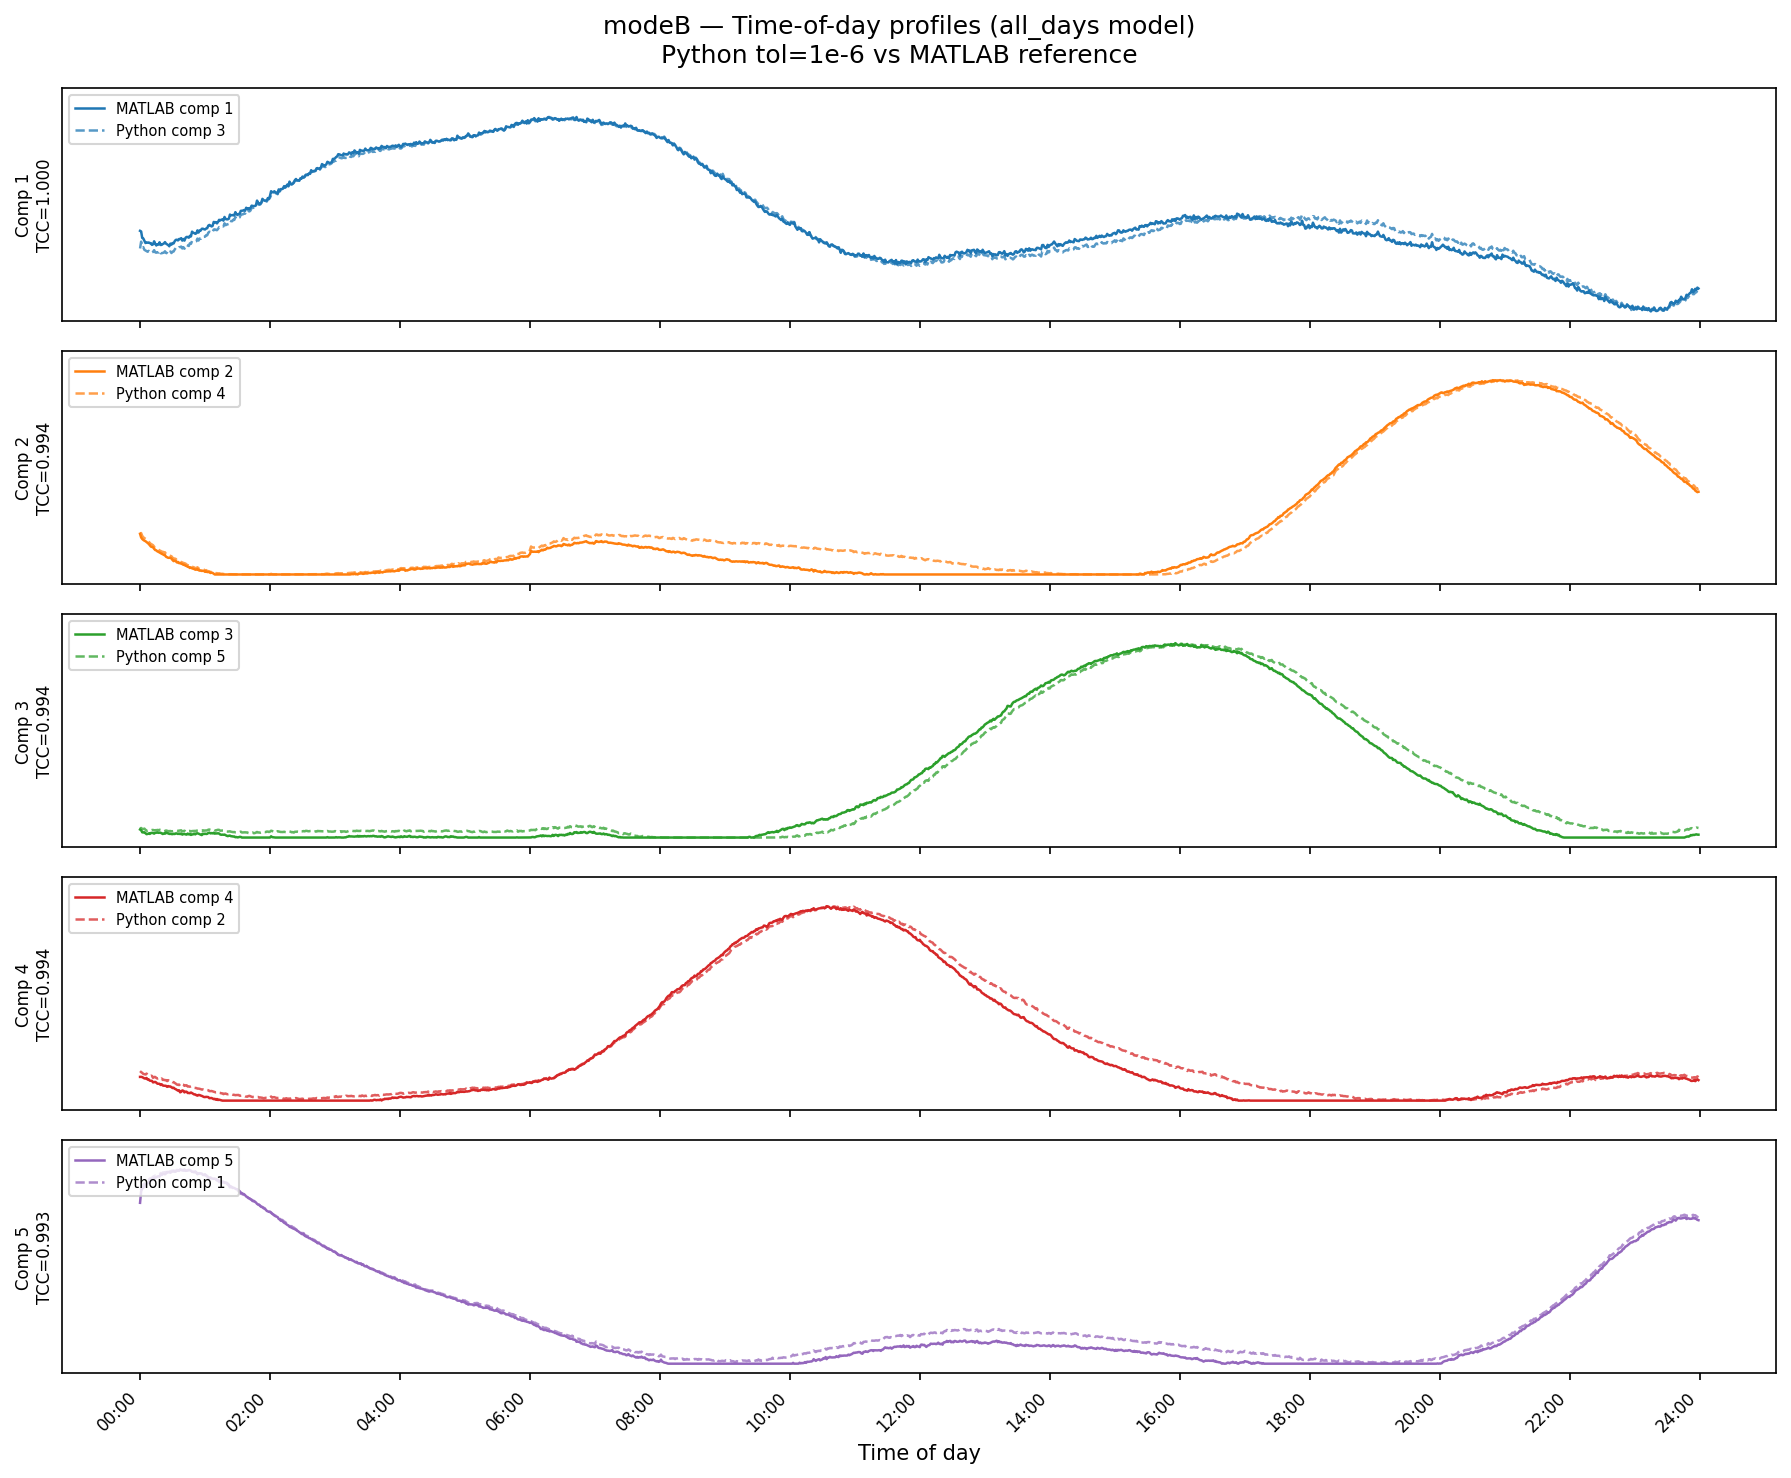
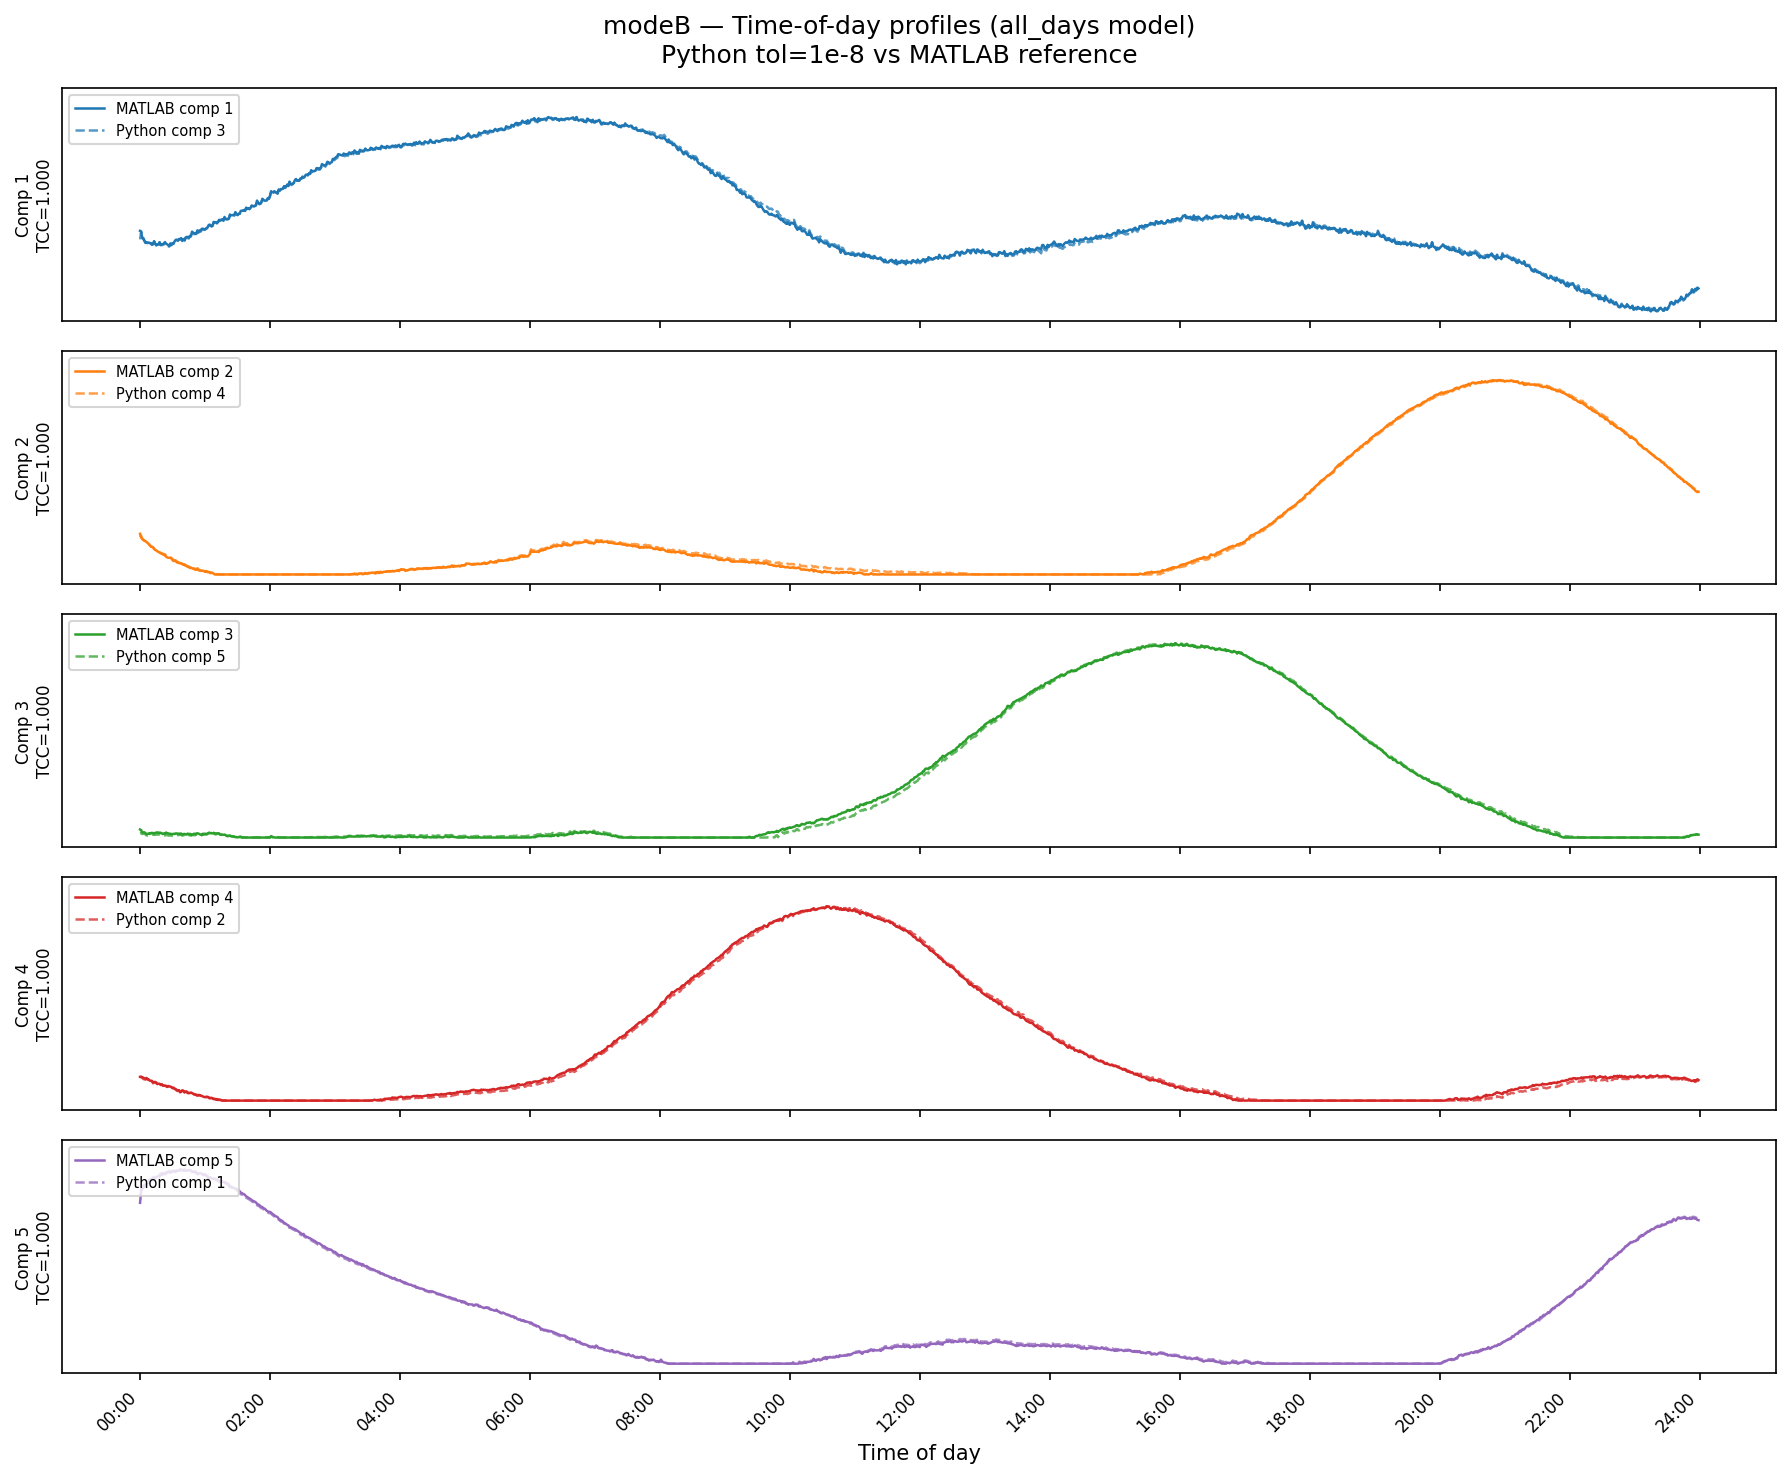
Switch reference model to tol=1e-8 output; fix linting
- validate_matlab.py and plot_results.py now point to output_tol1e8/all_days
  (tol=1e-8 run hit 10k iter limit but TCC mean=0.9998 vs 0.9950 for tol=1e-6)
- Fix E501 line-length violations in validate_matlab.py
- Fix E402/E221/E501 linting errors in plot_results.py; move matplotlib.use()
  before other imports, remove alignment spacing, break long lines
- Regenerate figures with tol=1e-8 results

diff --git a/python/plot_results.py b/python/plot_results.py
@@ -3,7 +3,7 @@ Plot PARAFAC results and Python vs MATLAB validation.
 
 Generates two figures saved to python/figures/:
   1. modeb_profiles.png  — time-of-day loading profiles for each component
-                           Python (tol=1e-6) overlaid on MATLAB reference
+                           Python (tol=1e-8) overlaid on MATLAB reference
   2. tcc_validation.png  — TCC heatmap: per-week and reference model
 
 Usage:
@@ -11,24 +11,28 @@ Usage:
 """
 
 import os
-import numpy as np
-import pandas as pd
+
 import matplotlib
 matplotlib.use("Agg")
-import matplotlib.pyplot as plt
-import matplotlib.ticker as mticker
-from scipy.optimize import linear_sum_assignment
+import matplotlib.pyplot as plt  # noqa: E402
+import matplotlib.ticker as mticker  # noqa: E402
+import numpy as np  # noqa: E402
+import pandas as pd  # noqa: E402
+from scipy.optimize import linear_sum_assignment  # noqa: E402
 
 _HERE = os.path.dirname(os.path.abspath(__file__))
 LOADINGS_CSV = os.path.join(_HERE, "..", "matlab", "data", "loadings_all.csv")
-ALL_DAYS_DIR = os.path.join(_HERE, "data", "output_tol1e6", "all_days")
+ALL_DAYS_DIR = os.path.join(_HERE, "data", "output_tol1e8", "all_days")
 PER_WEEK_DIR = os.path.join(_HERE, "data", "output", "per_week")
-FIGURES_DIR  = os.path.join(_HERE, "figures")
+FIGURES_DIR = os.path.join(_HERE, "figures")
 
 TRAINING_SOURCE = "2019-08-19_2019-09-22"
 N_COMP = 5
 COMP_COLS = [f"comp_{i+1}" for i in range(N_COMP)]
-WEEK_MAP = {"1": "week01", "2": "week02", "3": "week03", "4": "week04", "5": "week05"}
+WEEK_MAP = {
+    "1": "week01", "2": "week02", "3": "week03",
+    "4": "week04", "5": "week05",
+}
 
 
 # ---------------------------------------------------------------------------
@@ -72,36 +76,37 @@ def minutes_to_time(minutes):
 
 def plot_modeb_profiles(df):
     mat_b = load_matlab(df, "reference", "reference", "B")
-    py_b  = load_python(os.path.join(ALL_DAYS_DIR, "modeB_all_days.csv"))
+    py_b = load_python(os.path.join(ALL_DAYS_DIR, "modeB_all_days.csv"))
 
     tcc = tcc_matrix(mat_b, py_b)
     row_ind, col_ind, tcc_vals = best_alignment(tcc)
-
-    # Reorder Python columns to match MATLAB component order
     py_b_aligned = py_b[:, col_ind]
 
     minutes = np.arange(1440)
-    x_ticks = np.arange(0, 1441, 120)          # every 2 hours
+    x_ticks = np.arange(0, 1441, 120)
     x_labels = [minutes_to_time(m) for m in x_ticks]
 
     fig, axes = plt.subplots(N_COMP, 1, figsize=(12, 10), sharex=True)
-    fig.suptitle("modeB — Time-of-day profiles (all_days model)\n"
-                 "Python tol=1e-6 vs MATLAB reference", fontsize=12)
+    fig.suptitle(
+        "modeB — Time-of-day profiles (all_days model)\n"
+        "Python tol=1e-8 vs MATLAB reference",
+        fontsize=12,
+    )
+
+    def norm01(v):
+        lo, hi = v.min(), v.max()
+        return (v - lo) / (hi - lo) if hi > lo else v
 
     colors = plt.cm.tab10.colors
     for i, ax in enumerate(axes):
-        py_col  = py_b_aligned[:, i]
+        py_col = py_b_aligned[:, i]
         mat_col = mat_b[:, row_ind[i]]
-
-        # normalise to [0,1] for visual comparison (scale ambiguity is expected)
-        def norm01(v):
-            lo, hi = v.min(), v.max()
-            return (v - lo) / (hi - lo) if hi > lo else v
 
         ax.plot(minutes, norm01(mat_col), color=colors[i], lw=1.2,
                 label=f"MATLAB comp {row_ind[i]+1}")
-        ax.plot(minutes, norm01(py_col),  color=colors[i], lw=1.2,
-                linestyle="--", alpha=0.75, label=f"Python comp {col_ind[i]+1}")
+        ax.plot(minutes, norm01(py_col), color=colors[i], lw=1.2,
+                linestyle="--", alpha=0.75,
+                label=f"Python comp {col_ind[i]+1}")
 
         ax.set_ylabel(f"Comp {i+1}\nTCC={tcc_vals[i]:.3f}", fontsize=8)
         ax.legend(fontsize=7, loc="upper left")
@@ -124,30 +129,22 @@ def plot_modeb_profiles(df):
 # ---------------------------------------------------------------------------
 
 def plot_tcc_heatmap(df):
-    # Build matrix: rows = weeks (1-5) + reference, cols = components 1-5
-    week_labels = [f"Week {w}" for w in range(1, 6)]
-    ref_label   = ["Reference"]
-    row_labels  = week_labels + ref_label
+    row_labels = [f"Week {w}" for w in range(1, 6)] + ["Reference"]
+    tcc_mean_b = []
+    tcc_vals_b = []
 
-    tcc_mean_b = []  # mean TCC for modeB per row
-    tcc_vals_b = []  # per-component TCC for modeB
-
-    # Per-week
     for week_num, py_label in WEEK_MAP.items():
         mat_b = load_matlab(df, "weekly", week_num, "B")
-        py_b  = load_python(
+        py_b = load_python(
             os.path.join(PER_WEEK_DIR, py_label, f"modeB_{py_label}.csv")
         )
-        tcc   = tcc_matrix(mat_b, py_b)
-        _, _, vals = best_alignment(tcc)
+        _, _, vals = best_alignment(tcc_matrix(mat_b, py_b))
         tcc_vals_b.append(sorted(vals, reverse=True))
         tcc_mean_b.append(vals.mean())
 
-    # Reference
     mat_b = load_matlab(df, "reference", "reference", "B")
-    py_b  = load_python(os.path.join(ALL_DAYS_DIR, "modeB_all_days.csv"))
-    tcc   = tcc_matrix(mat_b, py_b)
-    _, _, vals = best_alignment(tcc)
+    py_b = load_python(os.path.join(ALL_DAYS_DIR, "modeB_all_days.csv"))
+    _, _, vals = best_alignment(tcc_matrix(mat_b, py_b))
     tcc_vals_b.append(sorted(vals, reverse=True))
     tcc_mean_b.append(vals.mean())
 
@@ -161,16 +158,16 @@ def plot_tcc_heatmap(df):
     ax.set_xticklabels([f"Comp {i+1}" for i in range(N_COMP)])
     ax.set_yticks(range(len(row_labels)))
     ax.set_yticklabels(row_labels)
-    ax.set_title("TCC: Python vs MATLAB — modeB (time profiles)\n"
-                 "Columns sorted by TCC descending per model")
+    ax.set_title(
+        "TCC: Python vs MATLAB — modeB (time profiles)\n"
+        "Columns sorted by TCC descending per model"
+    )
 
-    # Annotate cells
     for i in range(data.shape[0]):
         for j in range(data.shape[1]):
             ax.text(j, i, f"{data[i, j]:.3f}", ha="center", va="center",
                     fontsize=8, color="black")
 
-    # Mean column on the right
     for i, mean in enumerate(tcc_mean_b):
         ax.text(N_COMP + 0.6, i, f"μ={mean:.4f}", va="center", fontsize=8)
 

diff --git a/python/validate_matlab.py b/python/validate_matlab.py
@@ -41,7 +41,7 @@ from scipy.optimize import linear_sum_assignment
 _HERE = os.path.dirname(os.path.abspath(__file__))
 LOADINGS_CSV = os.path.join(_HERE, "..", "matlab", "data", "loadings_all.csv")
 PER_WEEK_DIR = os.path.join(_HERE, "data", "output", "per_week")
-ALL_DAYS_DIR = os.path.join(_HERE, "data", "output_tol1e6", "all_days")
+ALL_DAYS_DIR = os.path.join(_HERE, "data", "output_tol1e8", "all_days")
 
 TRAINING_SOURCE = "2019-08-19_2019-09-22"
 N_COMP = 5
@@ -57,14 +57,14 @@ WEEK_MAP = {
 
 
 def tcc_matrix(a: np.ndarray, b: np.ndarray) -> np.ndarray:
-    """Cosine similarity between each pair of columns of a and b (shape m×k)."""
+    """Cosine similarity between each column pair of a and b (shape m×k)."""
     a_n = a / np.linalg.norm(a, axis=0, keepdims=True)
     b_n = b / np.linalg.norm(b, axis=0, keepdims=True)
     return a_n.T @ b_n  # (k×k)
 
 
 def best_alignment(tcc_mat: np.ndarray):
-    """Hungarian algorithm: find column permutation that maximises sum of TCC."""
+    """Hungarian algorithm: column permutation maximising sum of TCC."""
     row_ind, col_ind = linear_sum_assignment(-tcc_mat)
     return row_ind, col_ind, tcc_mat[row_ind, col_ind]
 
@@ -93,7 +93,9 @@ def _report(label: str, mat: np.ndarray, py: np.ndarray):
     )
 
 
-def _load_matlab(df: pd.DataFrame, type_: str, week: str, mode: str) -> np.ndarray:
+def _load_matlab(
+    df: pd.DataFrame, type_: str, week: str, mode: str
+) -> np.ndarray:
     subset = df[
         (df["source"] == TRAINING_SOURCE)
         & (df["type"] == type_)
